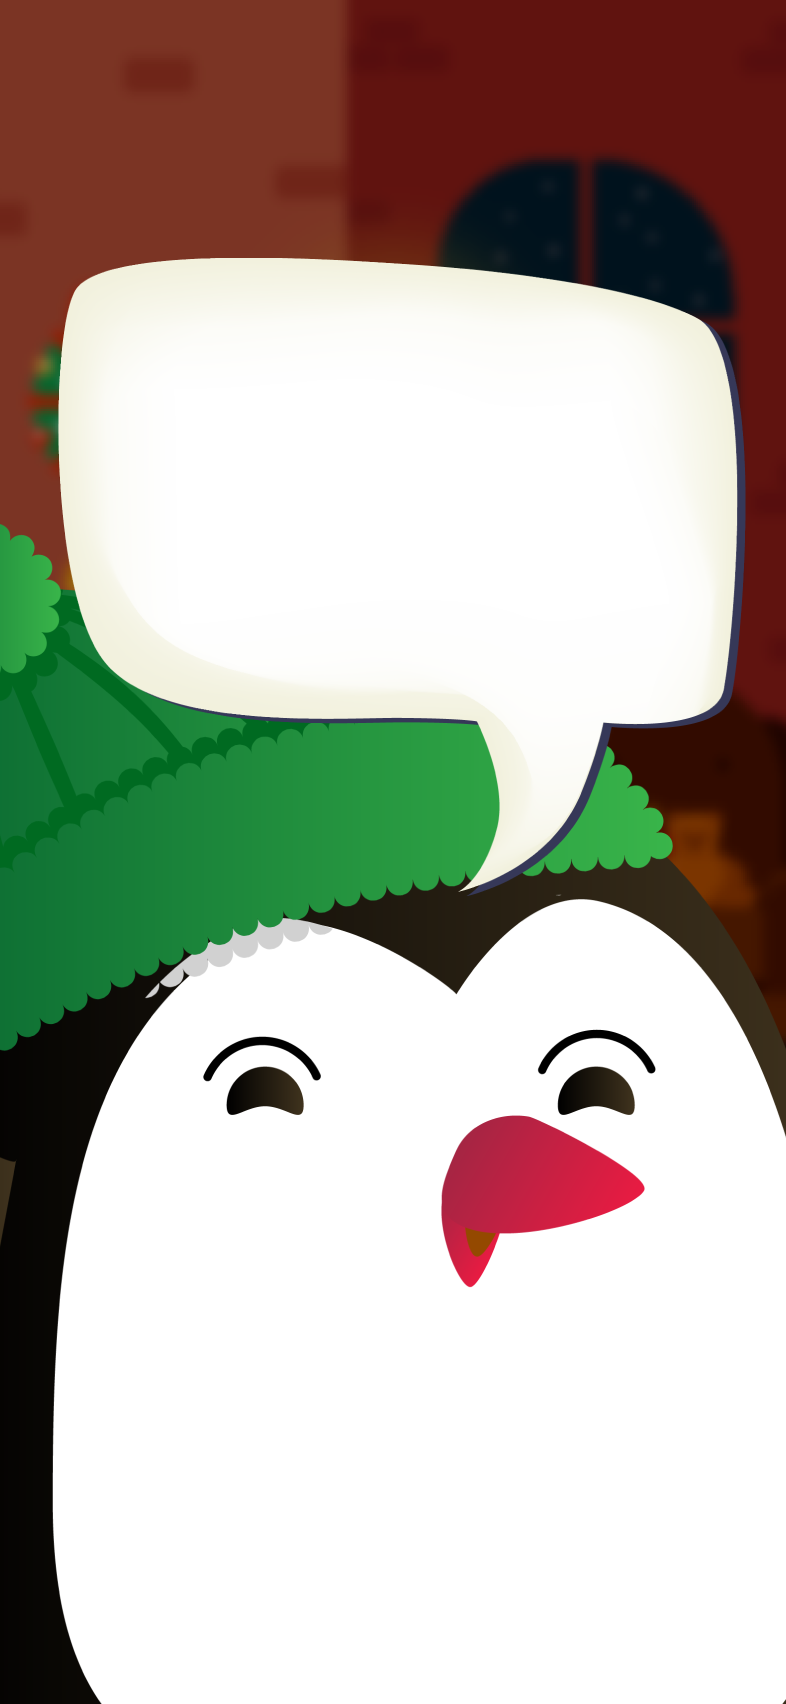
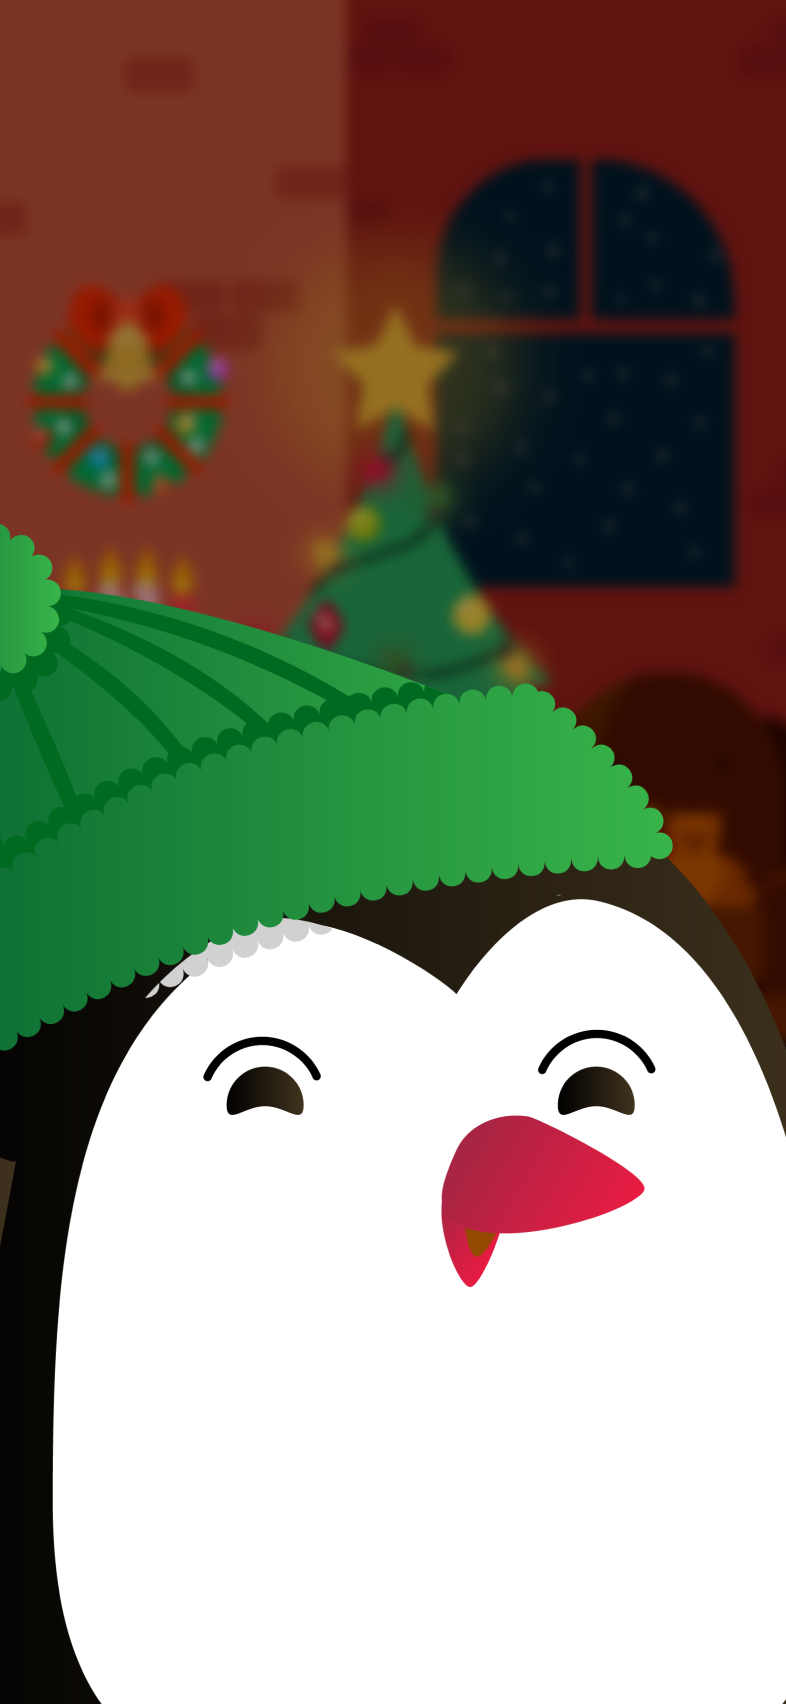
fixed penguin text sign

Changed region(s): [[0.0611, 0.1244, 0.9466, 0.5288]]

diff --git a/src/app/[locale]/story/penguin/page.tsx b/src/app/[locale]/story/penguin/page.tsx
@@ -35,61 +35,70 @@ const PenguinPage = () => {
                 backgroundSize: "cover",
             }}
         >
-            { level === 1 && (
+            <div className="w-full h-auto flex justify-center items-center relative">
+                <Image
+                    alt="text sign"
+                    src="/STORY 5-7/TEXT SIGN.png"
+                    width={344}
+                    height={319}
+                >
 
-                <div className="gap-6 text-2xl font-bold text-center flex flex-col justify-center items-center absolute h-56 w-80 top-40 left-1/2 transform -translate-x-1/2 text-black">
-                Hi, {user.name} <br/>
-                I'm Penguinny!
+                </Image>
+                { level === 1 && (
 
-                    <button onClick={() => setLevel(2)} className="shadow-lg text-center text-white text-xl rounded-lg py-2 px-8 bg-gradient-to-r from-[#FAA98F] to-[#FD67AD]">
-                        Next
-                    </button>
+                    <div className="absolute mb-16 flex flex-col justify-center items-center gap-6 text-2xl font-bold text-center text-black">
+                        Hi, {user.name} <br/>
+                        I'm Penguinny!
 
-                </div>
-            )}
+                        <button onClick={() => setLevel(2)} className="shadow-lg text-center text-white text-xl rounded-lg py-2 px-8 bg-gradient-to-r from-[#FAA98F] to-[#FD67AD]">
+                            Next
+                        </button>
+                    </div>
+                )}
 
-            { level === 2 && (
+                { level === 2 && (
 
-                <div className="gap-6 text-2xl font-bold text-center flex flex-col justify-center items-center absolute h-56 w-80 top-40 left-1/2 transform -translate-x-1/2 text-black">
-                    Are you ready to explore?
+                    <div className="absolute mb-16 flex flex-col justify-center items-center gap-6 text-2xl font-bold text-center text-black">
+                        Are you ready to explore?
 
-                    {choice === "" && (
-                        
-                        <div className="flex flex-col justify-center items-center gap-y-2">
-                            <button onClick={() => handleChoiceChange("yes")} className="shadow-lg text-center text-white text-xl rounded-lg py-2 px-12 bg-gradient-to-r from-[#FAA98F] to-[#FD67AD]">
-                                Yes
-                            </button>
-
-                            <button onClick={() => handleChoiceChange("no")} className="shadow-lg text-center text-white text-xl rounded-lg py-2 px-12 bg-black">
-                                No
-                            </button>
-                        </div>
-                    )}
-
-                    {choice === "yes" && (
-                        
-                        <button onClick={() => router.push("/quiz/1")} className="shadow-lg text-center text-white text-2xl rounded-lg py-5 px-20 bg-gradient-to-r from-[#39D68E] to-[#29A85F]">
-                                Yes!
-                            </button>
-                    
-                    )}
-
-
-                    {choice === "no" && (
+                        {choice === "" && (
                             
                             <div className="flex flex-col justify-center items-center gap-y-2">
-                            <button onClick={() => router.push("/quiz/1")} className="shadow-lg text-center text-white text-xl rounded-lg py-2 px-12 bg-gradient-to-r from-[#FAA98F] to-[#FD67AD]">
-                                Yes
-                            </button>
+                                <button onClick={() => handleChoiceChange("yes")} className="shadow-lg text-center text-white text-xl rounded-lg py-2 px-12 bg-gradient-to-r from-[#FAA98F] to-[#FD67AD]">
+                                    Yes
+                                </button>
 
-                            <button onClick={() => router.push("/quiz/1")} className="shadow-lg text-center text-white text-xl rounded-lg py-2 px-12 bg-black">
-                                Yes
-                            </button>
-                        </div>
-                    )}
+                                <button onClick={() => handleChoiceChange("no")} className="shadow-lg text-center text-white text-xl rounded-lg py-2 px-12 bg-black">
+                                    No
+                                </button>
+                            </div>
+                        )}
 
-                </div>
-            )}
+                        {choice === "yes" && (
+                            
+                            <button onClick={() => router.push("/quiz/1")} className="shadow-lg text-center text-white text-2xl rounded-lg py-5 px-20 bg-gradient-to-r from-[#39D68E] to-[#29A85F]">
+                                    Yes!
+                                </button>
+                        
+                        )}
+
+
+                        {choice === "no" && (
+                                
+                                <div className="flex flex-col justify-center items-center gap-y-2">
+                                <button onClick={() => router.push("/quiz/1")} className="shadow-lg text-center text-white text-xl rounded-lg py-2 px-12 bg-gradient-to-r from-[#FAA98F] to-[#FD67AD]">
+                                    Yes
+                                </button>
+
+                                <button onClick={() => router.push("/quiz/1")} className="shadow-lg text-center text-white text-xl rounded-lg py-2 px-12 bg-black">
+                                    Yes
+                                </button>
+                            </div>
+                        )}
+
+                    </div>
+                )}
+            </div>
 
 
 
